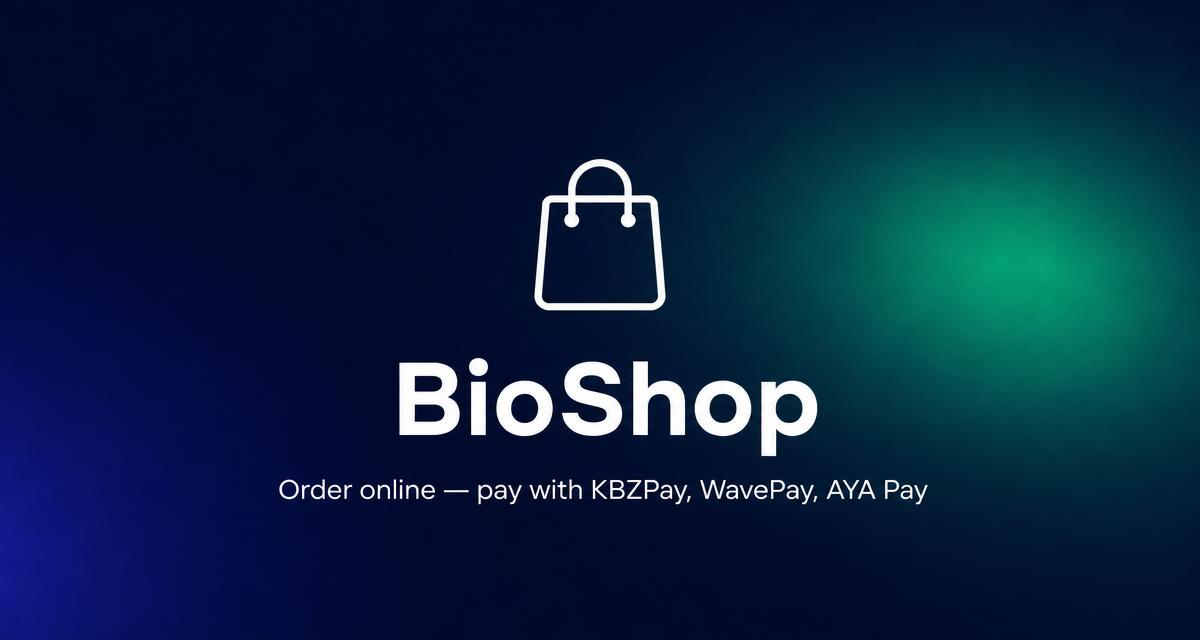
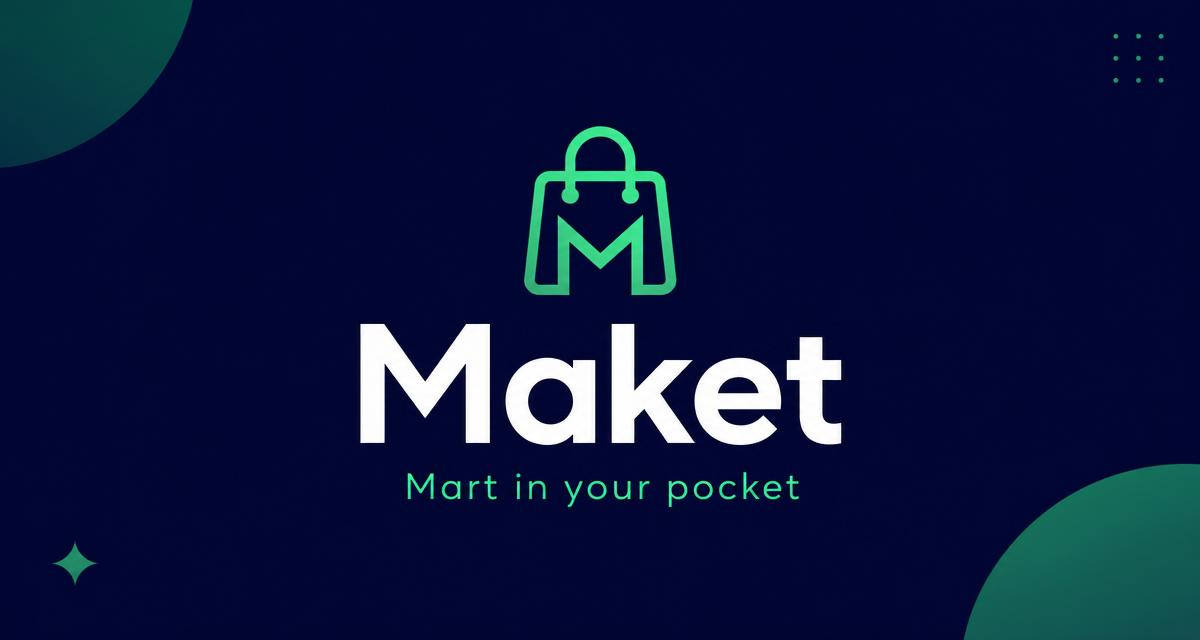
Changes
X-Lovable-Author-Email: arkarnaung009@gmail.com

diff --git a/src/routes/index.tsx b/src/routes/index.tsx
@@ -6,13 +6,13 @@ import { Button } from "@/components/ui/button";
 export const Route = createFileRoute("/")({
   head: () => ({
     meta: [
-      { title: "BioShop — sell from your TikTok bio link" },
+      { title: "Maket — sell from your TikTok bio link" },
       {
         name: "description",
         content:
-          "BioShop turns your TikTok bio link into a checkout page and collects every order in one place, with payment screenshots and delivery sheets.",
+          "Maket turns your TikTok bio link into a checkout page and collects every order in one place, with payment screenshots and delivery sheets.",
       },
-      { property: "og:title", content: "BioShop — sell from your TikTok bio link" },
+      { property: "og:title", content: "Maket — sell from your TikTok bio link" },
       {
         property: "og:description",
         content: "One link in your bio. Every order, payment and delivery sheet in one dashboard.",
@@ -56,7 +56,7 @@ function Landing() {
           Stop sorting orders in your chat box.
         </h1>
         <p className="mt-4 text-base text-muted-foreground">
-          BioShop collects every order from your bio link, keeps the payment screenshot beside the
+          Maket collects every order from your bio link, keeps the payment screenshot beside the
           delivery address, and gives you a courier sheet in one tap.
         </p>
 

diff --git a/src/routes/s.$handle.tsx b/src/routes/s.$handle.tsx
@@ -18,7 +18,7 @@ import {
 import { Separator } from "@/components/ui/separator";
 import { Textarea } from "@/components/ui/textarea";
 import { supabase } from "@/integrations/supabase/client";
-import { getPublicStore, placeCartOrder } from "@/lib/bioshop.functions";
+import { getPublicStore, placeCartOrder } from "@/lib/maket.functions";
 import { formatMmk, MYANMAR_CITIES } from "@/lib/format";
 
 const storeQuery = (handle: string) =>
@@ -46,12 +46,12 @@ export const Route = createFileRoute("/s/$handle")({
         { property: "og:title", content: title },
         { property: "og:description", content: description },
         { property: "og:type", content: "website" },
-        { property: "og:site_name", content: "BioShop" },
+        { property: "og:site_name", content: "Maket" },
         ...(loaderData.storeUrl ? [{ property: "og:url", content: loaderData.storeUrl }] : []),
         ...(loaderData.ogImageUrl
           ? [
               { property: "og:image", content: loaderData.ogImageUrl },
-              { property: "og:image:alt", content: `${loaderData.seller.businessName} on BioShop` },
+              { property: "og:image:alt", content: `${loaderData.seller.businessName} on Maket` },
               { name: "twitter:image", content: loaderData.ogImageUrl },
             ]
           : []),

diff --git a/src/routes/auth.tsx b/src/routes/auth.tsx
@@ -12,13 +12,13 @@ export const Route = createFileRoute("/auth")({
   ssr: false,
   head: () => ({
     meta: [
-      { title: "Sign in to BioShop" },
+      { title: "Sign in to Maket" },
       {
         name: "description",
-        content: "Sign in or create your BioShop seller account to manage orders and stock.",
+        content: "Sign in or create your Maket seller account to manage orders and stock.",
       },
-      { property: "og:title", content: "Sign in to BioShop" },
-      { property: "og:description", content: "Manage your social commerce orders with BioShop." },
+      { property: "og:title", content: "Sign in to Maket" },
+      { property: "og:description", content: "Manage your social commerce orders with Maket." },
     ],
   }),
   component: AuthPage,
@@ -88,7 +88,7 @@ function AuthPage() {
         <p className="mt-1.5 text-sm text-muted-foreground">
           {mode === "signin"
             ? "Sign in to manage your orders and stock."
-            : "Set up a BioShop account in a few seconds."}
+            : "Set up a Maket account in a few seconds."}
         </p>
 
         {checkEmail ? (

diff --git a/src/routes/__root.tsx b/src/routes/__root.tsx
@@ -78,13 +78,13 @@ export const Route = createRootRouteWithContext<{ queryClient: QueryClient }>()(
     meta: [
       { charSet: "utf-8" },
       { name: "viewport", content: "width=device-width, initial-scale=1" },
-      { title: "BioShop — order management for social sellers" },
+      { title: "Maket — order management for social sellers" },
       {
         name: "description",
         content:
-          "BioShop helps Myanmar TikTok sellers collect orders, verify payments and track stock from their phone.",
+          "Maket helps Myanmar TikTok sellers collect orders, verify payments and track stock from their phone.",
       },
-      { property: "og:title", content: "BioShop — order management for social sellers" },
+      { property: "og:title", content: "Maket — order management for social sellers" },
       {
         property: "og:description",
         content: "Collect orders from your TikTok bio link and manage them from your phone.",

diff --git a/src/lib/maket.functions.ts b/src/lib/maket.functions.ts
@@ -130,7 +130,7 @@ const loadOrCreateSeller = async (
 
   const created = await client
     .from("sellers")
-    .insert({ user_id: userId, tiktok_handle: handle, business_name: "My BioShop" })
+    .insert({ user_id: userId, tiktok_handle: handle, business_name: "My Maket" })
     .select(SELLER_COLUMNS)
     .single();
 
@@ -766,7 +766,7 @@ export const sendTestAlert = createServerFn({ method: "POST" })
     const { sendTelegramMessage } = await import("@/lib/telegram.server");
     const result = await sendTelegramMessage(
       chatId,
-      "✅ BioShop test alert — new orders will arrive here.",
+      "✅ Maket test alert — new orders will arrive here.",
     );
     if (!result.ok) throw new Error(result.error);
     return { ok: true };

diff --git a/src/routes/_authenticated/orders.tsx b/src/routes/_authenticated/orders.tsx
@@ -10,7 +10,7 @@ import { StatusBadge } from "@/components/status-badge";
 import { Button } from "@/components/ui/button";
 import { Dialog, DialogContent, DialogTitle } from "@/components/ui/dialog";
 import { Sheet, SheetContent, SheetHeader, SheetTitle } from "@/components/ui/sheet";
-import { listOrders, updateOrderStatus, type Order } from "@/lib/bioshop.functions";
+import { listOrders, updateOrderStatus, type Order } from "@/lib/maket.functions";
 import { formatDateTime, formatMmk, ORDER_STATUS_LABELS, type OrderStatus } from "@/lib/format";
 
 const ordersQuery = queryOptions({

diff --git a/src/routes/_authenticated/dashboard.tsx b/src/routes/_authenticated/dashboard.tsx
@@ -7,7 +7,7 @@ import { toast } from "sonner";
 import { AppShell } from "@/components/app-shell";
 import { StatusBadge } from "@/components/status-badge";
 import { Button } from "@/components/ui/button";
-import { getShopOverview } from "@/lib/bioshop.functions";
+import { getShopOverview } from "@/lib/maket.functions";
 import { formatDate, formatMmk } from "@/lib/format";
 
 const overviewQuery = queryOptions({

diff --git a/src/lib/order-alert.ts b/src/lib/order-alert.ts
@@ -32,6 +32,6 @@ export const buildOrderAlertMessage = (input: OrderAlertInput): string => {
     `Phone: ${input.buyerPhone}`,
     `Deliver to: ${input.deliveryCity} — ${input.deliveryAddress}`,
     "",
-    "Status: Pending. Check the payment screenshot in your BioShop orders.",
+    "Status: Pending. Check the payment screenshot in your Maket orders.",
   ].join("\n");
 };

diff --git a/src/hooks/use-new-order-alerts.ts b/src/hooks/use-new-order-alerts.ts
@@ -2,7 +2,7 @@ import { useQuery, useQueryClient } from "@tanstack/react-query";
 import { useEffect, useRef } from "react";
 import { toast } from "sonner";
 
-import { getOrderPulse } from "@/lib/bioshop.functions";
+import { getOrderPulse } from "@/lib/maket.functions";
 
 const playChime = (): void => {
   try {

diff --git a/src/routes/_authenticated/products.tsx b/src/routes/_authenticated/products.tsx
@@ -24,7 +24,7 @@ import {
   saveProduct,
   setProductActive,
   type Product,
-} from "@/lib/bioshop.functions";
+} from "@/lib/maket.functions";
 import { formatMmk, LOW_STOCK_THRESHOLD } from "@/lib/format";
 
 const productsQuery = queryOptions({

diff --git a/src/routes/_authenticated/settings.tsx b/src/routes/_authenticated/settings.tsx
@@ -16,7 +16,7 @@ import {
   saveAlertSettings,
   sendTestAlert,
   updateShopSettings,
-} from "@/lib/bioshop.functions";
+} from "@/lib/maket.functions";
 
 const alertsQuery = queryOptions({
   queryKey: ["alert-settings"],
